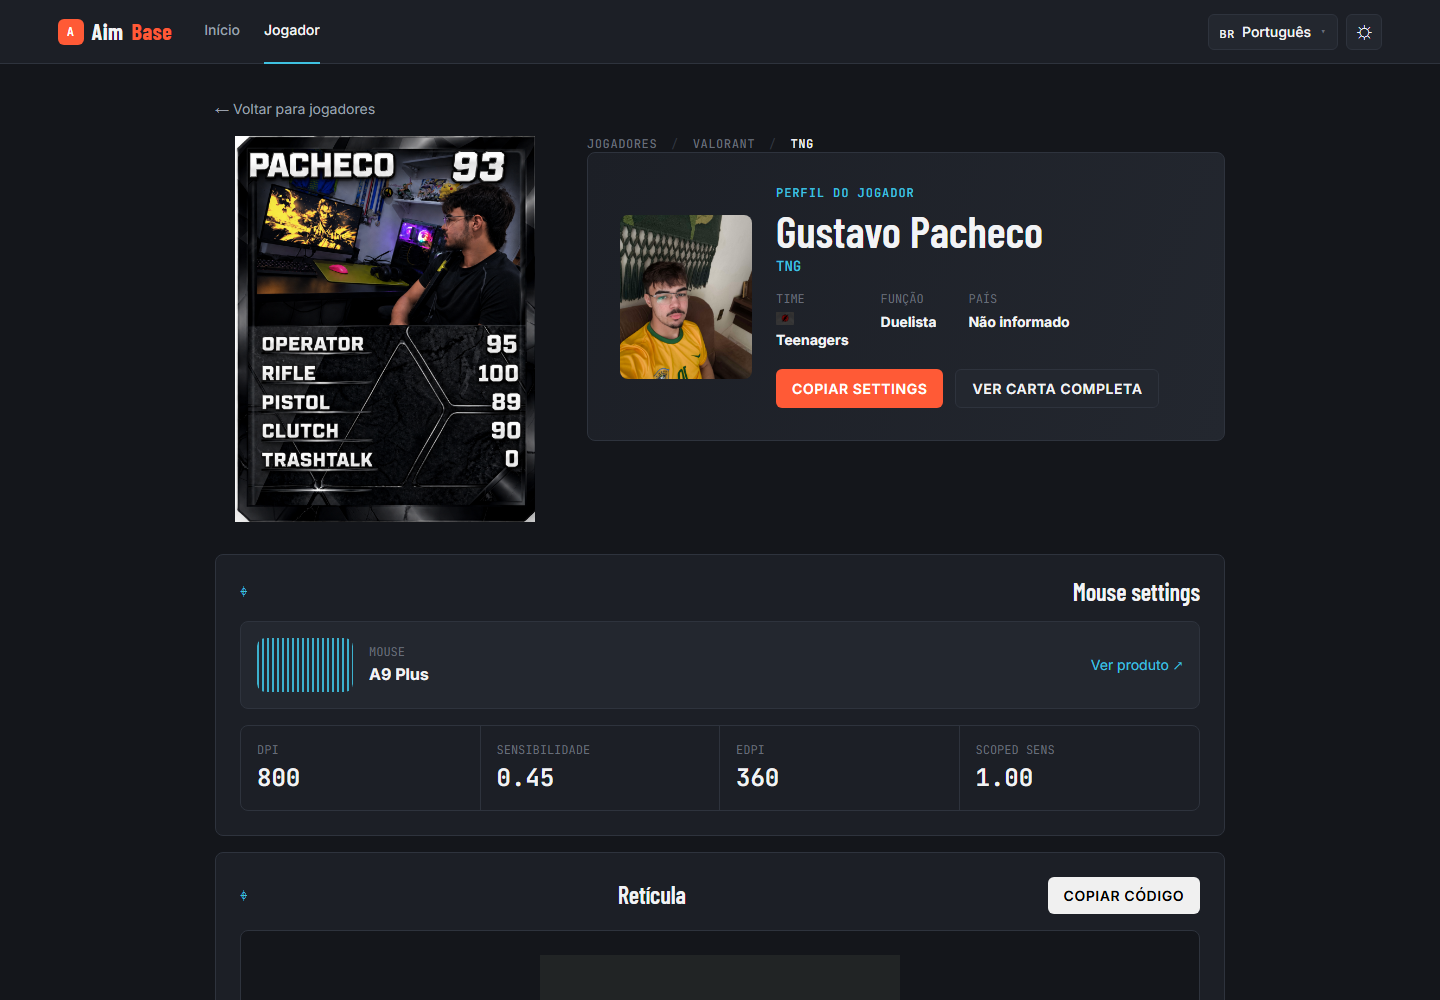
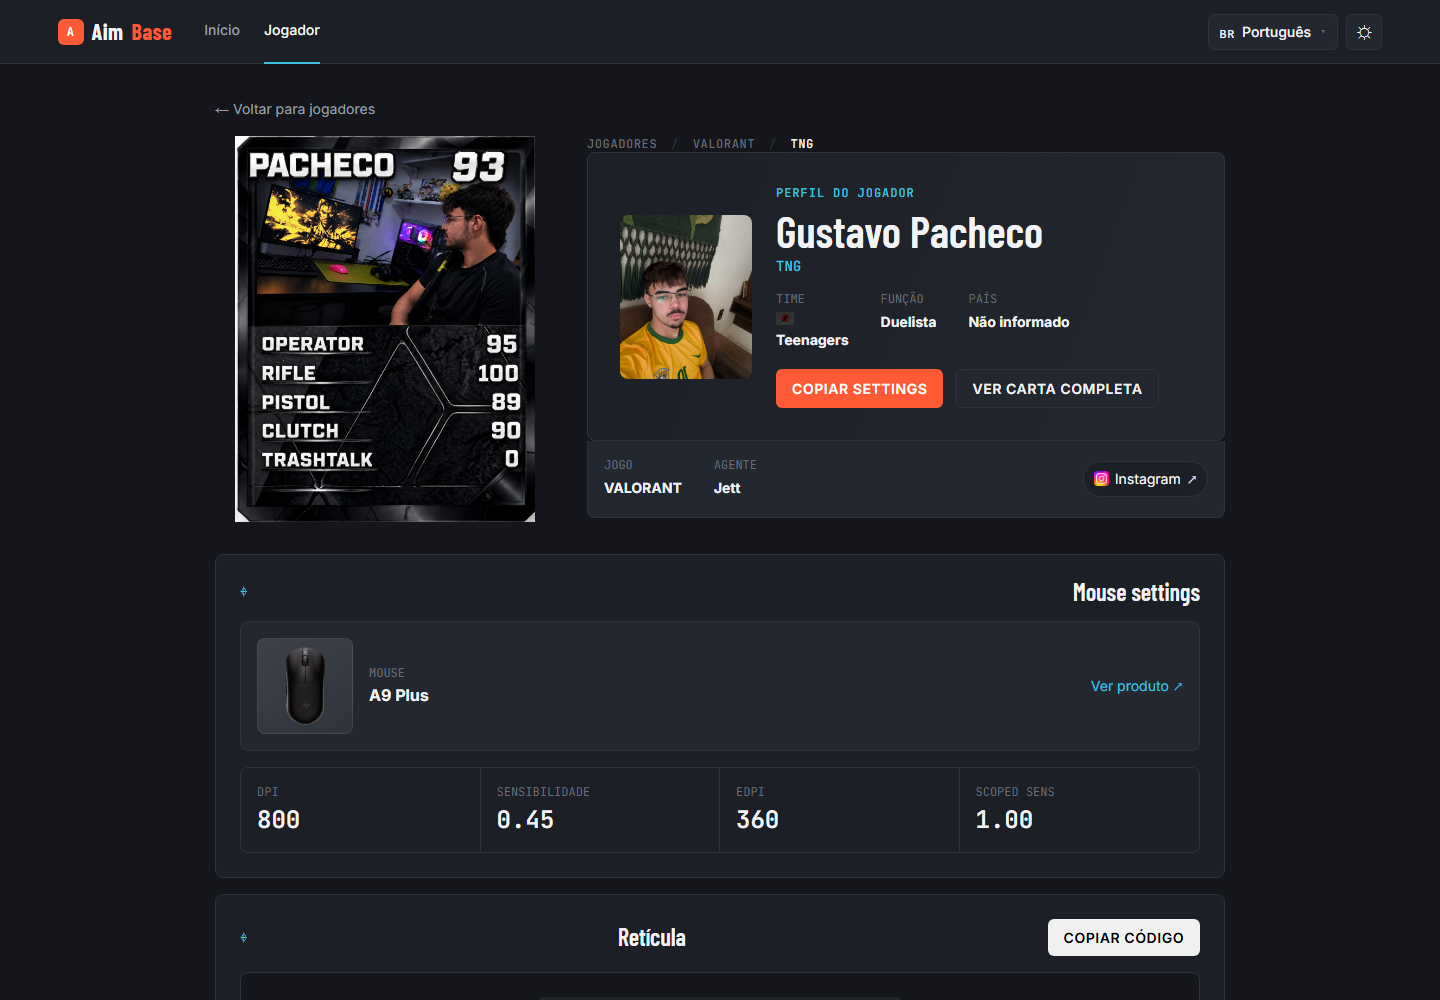
feat: adiciona miniaturas transparentes dos mouses nos perfis

diff --git a/data.js b/data.js
@@ -17,7 +17,7 @@ const defaultPlayers = [{
   videoSettings: [['Resolução', '1920x1080'], ['Proporção', '16:9'], ['Método', 'Fill'], ['Modo de exibição', 'Tela cheia'], ['Renderização multithread', 'Ligada'], ['Material / textura / detalhe', 'Baixo'], ['Qualidade da interface', 'Baixa'], ['Vignette / VSync', 'Desligados'], ['Anti-aliasing', 'MSAA 4x'], ['Filtragem anisotrópica', '4x'], ['Improve Clarity / Sharpening', 'Desligados'], ['Bloom', 'Desligado'], ['Distortion / sombras', 'Desligados'], ['Destaque de inimigo', 'Yellow (Deuteranopia)'], ['NVIDIA Reflex', 'On + Boost']],
   pcSpecs: [['Processador', 'AMD Ryzen 5 5600', 'https://www.pichau.com.br/processador-amd-ryzen-5-5600-6-core-12-threads-3-5ghz-4-4ghz-turbo-cache-35mb-am4-100-100000927box', 'assets/rzn.jpg'], ['Placa de vídeo', 'RTX 3060 12GB', 'https://www.foxgamerinfo.com.br/product-page/placa-de-v%C3%ADdeo-geforce-rtx-3060-12gb-gddr6', 'assets/rtx.jpeg']],
   headset: { name: 'MCHOSE V9 Pro', link: 'https://pt.aliexpress.com/item/1005011745761008.html' },
-  productImages: { monitor: 'assets/products/superframe-sfp2415.jpg', mouse: 'assets/products/atk-a9-plus.jpg', keyboard: 'assets/products/madlions-68-he.jpg', headset: 'assets/products/mchose-v9-pro.jpg', mousepad: 'assets/products/atk-99g-xsoft.png' },
+  productImages: { monitor: 'assets/products/superframe-sfp2415.jpg', mouse: 'assets/products/atk-a9-plus.png', keyboard: 'assets/products/madlions-68-he.jpg', headset: 'assets/products/mchose-v9-pro.jpg', mousepad: 'assets/products/atk-99g-xsoft.png' },
   links: { mouse: 'https://pt.aliexpress.com/item/1005011812220400.html', keyboard: 'https://pt.aliexpress.com/item/1005008299208938.html', mousepad: 'https://pt.aliexpress.com/item/1005011561185122.html', monitor: 'https://www.terabyteshop.com.br/produto/33583' }
 }, {
   id: 'z4gb', name: 'Gabriel Felipi', tag: 'Z4GB#TOP1', team: 'Free Agent', role: 'Duelista', country: '🇧🇷 Brasil',
@@ -38,7 +38,7 @@ const defaultPlayers = [{
   social: { Instagram: 'https://www.instagram.com/costa22_hand/' },
   headset: { name: 'TRUTHEAR x Crinacle ZERO In-ear Monitor', link: 'https://truthear.com/products/zero' },
   videoSettings: [['Resolução', '1920x1080'], ['Proporção', '16:9'], ['Método', 'Fill'], ['Modo de exibição', 'Tela cheia'], ['Renderização multithread', 'Ligada'], ['Material / textura / detalhe', 'Baixo'], ['Qualidade da interface', 'Baixa'], ['Vignette / VSync', 'Desligados'], ['Anti-aliasing', 'MSAA 4x'], ['Filtragem anisotrópica', '4x'], ['Improve Clarity / Sharpening', 'Desligados'], ['Bloom', 'Desligado'], ['Distortion / sombras', 'Desligados'], ['Destaque de inimigo', 'Yellow (Deuteranopia)'], ['NVIDIA Reflex', 'On + Boost']],
-  productImages: { mouse: 'assets/products/tardus-logitech-g403-hero.jpg', keyboard: 'assets/products/tardus-ajazz-ak820.png', headset: 'assets/TRUTHEAR.jpg', monitor: 'assets/products/tardus-duex-dx270qgp165.jpg' },
+  productImages: { mouse: 'assets/products/tardus-logitech-g403-hero.png', keyboard: 'assets/products/tardus-ajazz-ak820.png', headset: 'assets/TRUTHEAR.jpg', monitor: 'assets/products/tardus-duex-dx270qgp165.jpg' },
   pcSpecs: [['Processador', 'AMD Ryzen 5 5600G', 'https://www.mercadolivre.com.br/processador-amd-ryzen5-5600g-com-video-6-nucleos-12-fios-39ghz-am4-ryzen-5/p/MLB18424403', 'assets/ryzeng.webp'], ['Placa de vídeo', 'RTX 3060 8GB', 'https://www.kabum.com.br/produto/543498/placa-de-video-rtx-3060-gigabyte-gaming-oc-8gb-gddr6-128bits', 'assets/rtx.webp']],
   links: { mouse: 'https://www.kabum.com.br/produto/102649', keyboard: 'https://pt.aliexpress.com/item/1005007805708183.html', mousepad: '', monitor: 'https://www.setupninja.com.br/' }
 }, {
@@ -48,7 +48,7 @@ const defaultPlayers = [{
   social: { Instagram: 'https://www.instagram.com/dannzx_01/' },
   videoSettings: [['Resolução', '1280x960'], ['Proporção', '4:3'], ['Método', 'Fill'], ['Modo de exibição', 'Tela cheia'], ['Renderização multithread', 'Ligada'], ['Material / textura / detalhe', 'Baixo'], ['Qualidade da UI', 'Baixa'], ['Vignette / VSync', 'Desligados'], ['Anti-aliasing', 'Nenhum'], ['Filtragem anisotrópica', '1x'], ['Improve Clarity / Sharpening', 'Desligados'], ['Bloom', 'Ligado'], ['Distortion / sombras', 'Desligados'], ['Destaque de inimigo', 'Yellow (Deuteranopia)'], ['NVIDIA Reflex', 'On + Boost']],
   headset: { name: 'Havit H2002D', link: 'https://www.amazon.com.br/Headphone-Ouvido-HV-H2002d-Microfone-Falante/dp/B07Y2G7VX5' },
-  productImages: { mouse: 'assets/products/danilo-delux-m800-pro.jpg', keyboard: 'assets/products/danilo-redragon-daksa.jpg', headset: 'assets/havit.webp', monitor: 'assets/products/danilo-lg-27gs60f-b.jpg' },
+  productImages: { mouse: 'assets/products/danilo-delux-m800-pro.png', keyboard: 'assets/products/danilo-redragon-daksa.jpg', headset: 'assets/havit.webp', monitor: 'assets/products/danilo-lg-27gs60f-b.jpg' },
   links: { mouse: 'https://www.mercadolivre.com.br/', keyboard: 'https://www.kabum.com.br/produto/202254', mousepad: '', monitor: 'https://www.kabum.com.br/produto/620992' },
   pcSpecs: [['Processador', 'AMD Ryzen 7 5700X', 'https://www.pichau.com.br/processador-amd-ryzen-7-5700x-8-core-16-threads-3-4ghz-4-6ghz-turbo-cache-36mb-am4-100-100000926wof', 'assets/ryzen7.jpg'], ['Placa de vídeo', 'RTX 3060 12GB', 'https://www.foxgamerinfo.com.br/product-page/placa-de-v%C3%ADdeo-geforce-rtx-3060-12gb-gddr6', 'assets/rtx.jpeg']]
 }, {
@@ -58,7 +58,7 @@ const defaultPlayers = [{
   headset: { name: 'Mintak Pro Wireless', link: 'https://titorion.com.br/product/headset-gamer-mintak-pro-wireless-2-4ghz-preto-1' },
   social: { Instagram: 'https://www.instagram.com/oggomes___/' },
   videoSettings: [['Resolução', '1920x1080'], ['Proporção', '16:9'], ['Modo de exibição', 'Tela cheia'], ['Renderização multithread', 'Ligada'], ['Qualidade', 'Baixa'], ['Multisampling Anti-Aliasing', 'Nenhum'], ['Filtro textures', 'Bilinear'], ['Shaders', 'Baixo'], ['Sombras', 'Desligadas'], ['Detalhes do modelo', 'Baixo'], ['Destaque de inimigo', 'Yellow (Deuteranopia)']],
-  productImages: { mouse: 'assets/attack.jpg', keyboard: 'assets/kumara.webp', headset: 'assets/mintak.webp', mousepad: 'assets/pad.webp', monitor: 'assets/products/igor-lg-27gs60f-b.jpg' },
+  productImages: { mouse: 'assets/attack.png', keyboard: 'assets/kumara.webp', headset: 'assets/mintak.webp', mousepad: 'assets/pad.webp', monitor: 'assets/products/igor-lg-27gs60f-b.jpg' },
   pcSpecs: [['Processador', 'AMD Ryzen 5 5600G (vídeo integrado)', 'https://www.mercadolivre.com.br/processador-amd-ryzen5-5600g-com-video-6-nucleos-12-fios-39ghz-am4-ryzen-5/p/MLB18424403#polycard_client=search-desktop&float_highlight=last_units&be_origin=backend&overlay_label=not_apply&search_layout=grid&position=5&type=product&tracking_id=06f9e4ad-5d8d-43cb-ba03-5155137f32bb&wid=MLB3468315723&sid=search', 'assets/ryzeng.webp']],
   links: { mouse: 'https://attackshark.net.br/products/attack-shark-x11-wireless-gaming-mouse-charging-dock', keyboard: 'https://www.kabum.com.br/produto/93159/teclado-mecanico-gamer-redragon-kumara-anti-ghosting-rgb-switch-outemu-red-abnt2-preto-pt-k552rgb-1-pt-red', mousepad: 'https://www.magazineluiza.com.br/mousepad-preto-16x21-generico/p/ff5caef714/in/mspd/', monitor: 'https://www.kabum.com.br/produto/620992' }
 }, {
@@ -69,7 +69,7 @@ const defaultPlayers = [{
   social: { Instagram: 'https://www.instagram.com/thomas__evangelista' },
   videoSettings: [['Qualidade de Textura', 'Baixa'], ['Filtragem de Textura', 'Linear'], ['Qualidade de LOD', 'Alta'], ['Qualidade de Sombras', 'Média'], ['Reflexos, Oclusão de Ambiente e Efeitos de Lente', 'Desligados'], ['Campo de Visão (FOV)', '90'], ['Anti-Aliasing', 'Desligado'], ['Entrada de dados bruta', 'Ativado']],
   pcSpecs: [['Processador', 'AMD Ryzen 5 Pro 3600G', 'https://www.kabum.com.br/produto/688260/processador-amd-ryzen-5-pro-3600g-3-6ghz-4-2ghz-max-turbo-am4-oem', 'assets/3600.webp']],
-  productImages: { mouse: 'assets/notho.webp', keyboard: 'assets/dyau.jpg' },
+  productImages: { mouse: 'assets/notho.png', keyboard: 'assets/dyau.jpg' },
   links: { mouse: 'https://www.redragon.store/mouse-gamer-redragon-nothosaur-m606-3200-dp', keyboard: 'https://www.pichau.com.br/teclado-gamer-redragon-dyaus2-rgb-k509rgb-pt', mousepad: '', monitor: '' }
 }, {
   id: 'mgk', name: 'Miguel Marlon', tag: 'ferreirinhachb#3717', team: 'Free Agent', role: 'Iniciador', country: '🇧🇷 Brasil',
@@ -80,7 +80,7 @@ const defaultPlayers = [{
   headset: { name: 'QKZ In-ear', link: 'https://www.mercadolivre.com.br/fone-de-ouvido-gamer-dj-musicos-retorno-palco-inear-ccase-cor-preto/p/MLB57335841#polycard_client=search-desktop&be_origin=backend&overlay_label=not_apply&search_layout=grid&position=7&type=product&tracking_id=eeb7bae5-3c19-4de6-bac1-8f73d0129e99&wid=MLB5755630628&sid=search' },
   videoSettings: [['Resolução', '1280x960'], ['Proporção', '4:3'], ['Método', 'Fill'], ['Modo de exibição', 'Tela cheia'], ['Renderização multithread', 'Ligada'], ['Material / textura / detalhe', 'Baixo'], ['Qualidade da UI', 'Baixa'], ['Vignette / VSync', 'Desligados'], ['Anti-aliasing', 'Nenhum'], ['Filtragem anisotrópica', '1x'], ['Improve Clarity / Sharpening', 'Desligados'], ['Bloom', 'Desligado'], ['Distortion / sombras', 'Desligados'], ['Destaque de inimigo', 'Yellow (Deuteranopia)'], ['NVIDIA Reflex', 'Ativado']],
   pcSpecs: [['Processador', 'AMD Ryzen 5 5600GT (vídeo integrado)', 'https://www.pichau.com.br/processador-amd-ryzen-5-5600gt-6-core-12-threads-3-6ghz-4-6ghz-turbo-cache-19mb-am4-100-100001488box', 'assets/ryzengt.jpg']],
-  productImages: { mouse: 'assets/products/atk-a9-plus.jpg', keyboard: 'assets/products/teclado.webp', mousepad: 'assets/products/mousepad.webp', headset: 'assets/qkz.webp', monitor: 'assets/products/monitor.webp' },
+  productImages: { mouse: 'assets/products/atk-a9-plus.png', keyboard: 'assets/products/teclado.webp', mousepad: 'assets/products/mousepad.webp', headset: 'assets/qkz.webp', monitor: 'assets/products/monitor.webp' },
   links: { mouse: 'https://www.amazon.com/ATK-Dragonfly-A9-Lightweight-Adjustable/dp/B0FNC9H56K?th=1', keyboard: 'https://global.machenike.com/pt-br/products/k500', mousepad: 'https://www.amazon.com.br/Mouse-pad-pk-control-1/dp/B0DFW1CWPX', monitor: 'https://www.shop.samsung.com.br/monitor-samsung-essential-s3-32-polegadas/p' }
 }, {
   id: 'fallen', name: 'Gabriel Toledo', tag: 'FalleN', team: 'FURIA', role: 'IGL / AWP', country: '🇧🇷 Brasil',
@@ -102,7 +102,7 @@ const defaultPlayers = [{
   crosshair: '0;P;h;0;0l;4;0o;0;0a;1;0f;0;1b;0', crosshairImage: 'assets/++.png',
   social: { Instagram: 'https://www.instagram.com/aspaszin/', Twitter: 'https://x.com/aspaszin', Twitch: 'https://www.twitch.tv/aspaszin', Youtube: 'https://www.youtube.com/channel/UC54ubmq5wHM3fK0ERA856Zg' },
   headset: { name: 'Razer BlackShark V3 Pro', link: 'https://amzn.to/419l8Jy' },
-  productImages: { mouse: 'assets/gpro.jpg', keyboard: 'assets/atk.webp', mousepad: 'assets/qcK.jpg', monitor: 'assets/zowie.jpg', headset: 'assets/razer.jpg' },
+  productImages: { mouse: 'assets/gpro.png', keyboard: 'assets/atk.webp', mousepad: 'assets/qcK.jpg', monitor: 'assets/zowie.jpg', headset: 'assets/razer.jpg' },
   videoSettings: [['Resolução', '1920x1080'], ['Proporção', '16:9'], ['Método de proporção', 'Fill'], ['Modo de exibição', 'Tela cheia'], ['Renderização multithread', 'Ligada'], ['Qualidade de material', 'Baixa'], ['Qualidade de textura', 'Baixa'], ['Qualidade de detalhe', 'Baixa'], ['Qualidade de interface', 'Baixa'], ['Vignette', 'Desligado'], ['VSync', 'Desligado'], ['Anti-Aliasing', 'Nenhum'], ['Filtragem anisotrópica', '1x'], ['Improve Clarity', 'Desligado'], ['Experimental Sharpening', 'Desligado'], ['Bloom', 'Ligado'], ['Distorção', 'Desligado'], ['Sombras projetadas', 'Desligado'], ['Destaque de inimigo', 'Yellow (Deuteranopia)'], ['Monitor · DyAc', 'Premium'], ['Monitor · Black eQualizer', '10'], ['Monitor · Color Vibrance', '10'], ['Monitor · Low Blue Light', '0'], ['Monitor · Picture Mode', 'FPS 1'], ['Monitor · Brilho', '88'], ['Monitor · Contraste', '50'], ['Monitor · Nitidez', '7'], ['Monitor · Gamma', '3'], ['Monitor · Temperatura de cor', 'User Define'], ['Monitor · RGB', '89/87/100'], ['Monitor · AMA', 'Premium'], ['GPU · Digital Vibrance', '50%'], ['Teclado · Código do perfil', '78f7950fb2896b5528db0b9c86b632249822']],
   pcSpecs: [['Processador', 'Intel Core i7-13700K', 'https://amzn.to/3J6SDEm', 'assets/i7.jpg'], ['Placa de vídeo', 'NVIDIA GeForce RTX 5080', 'https://amzn.to/4h9U4ir', 'assets/asus.jpg'], ['Gabinete', 'NZXT H7 Flow', 'https://amzn.to/4cpUm2T', 'assets/gabinete.jpg']],
   links: { mouse: 'https://amzn.to/3q86C2l', keyboard: 'https://amzn.to/4hrl3ac', mousepad: 'https://amzn.to/4tI6c0l', monitor: 'https://amzn.to/4a0nzAd' }
@@ -114,7 +114,7 @@ const defaultPlayers = [{
   crosshair: '0;P;c;7;o;1;d;1;a;0.943;0b;0;1b;0', crosshairImage: 'assets/download.png',
   social: { Twitter: 'https://twitter.com/NoiaFPS', Twitch: 'https://www.twitch.tv/NoiaVAL' },
   headset: { name: 'SteelSeries Arctis Nova Pro', link: 'https://amzn.to/3tMDkrP' },
-  productImages: { mouse: 'assets/wl.jpg', keyboard: 'assets/wooting.webp', mousepad: 'assets/artisan.jpg', monitor: 'assets/400hz.jpg', headset: 'assets/steel.jpg' },
+  productImages: { mouse: 'assets/wl.png', keyboard: 'assets/wooting.webp', mousepad: 'assets/artisan.jpg', monitor: 'assets/400hz.jpg', headset: 'assets/steel.jpg' },
   videoSettings: [['Resolução', '1920x1080'], ['Proporção', '16:9'], ['Método de proporção', 'Fill'], ['Modo de exibição', 'Tela cheia'], ['Renderização multithread', 'Ligada'], ['Material / textura / detalhe', 'Baixo'], ['Qualidade de interface', 'Baixa'], ['Vignette', 'Desligado'], ['VSync', 'Desligado'], ['Anti-Aliasing', 'Nenhum'], ['Filtragem anisotrópica', '8x'], ['Improve Clarity', 'Desligado'], ['Experimental Sharpening', 'Desligado'], ['Bloom', 'Desligado'], ['Distorção', 'Desligado'], ['Sombras projetadas', 'Desligado']],
   pcSpecs: [],
   links: { mouse: 'https://amzn.to/3TBrhen', keyboard: 'https://wooting.io/wooting-60he', mousepad: 'https://amzn.to/2K0cnMG', monitor: 'https://amzn.to/4cAR1xz' }

diff --git a/profile.js b/profile.js
@@ -144,6 +144,22 @@ if (document.body.dataset.page === 'profile') {
       scopedRaw != null && String(scopedRaw).trim() !== '' && Number.isFinite(scopedNum) ? scopedNum.toFixed(2) : '–';
     const naoInformado = I18N.t('common.notInformed');
     $('mouseName').textContent = player.mouse || naoInformado;
+    const mouseThumbWrap = $('mouseThumbWrap');
+    const mouseThumb = $('mouseThumb');
+    const mouseFallback = $('mouseFallback');
+    const mouseImage = player.productImages?.mouse;
+    if (mouseThumbWrap && mouseThumb && mouseFallback) {
+      const hasMouseImage = Boolean(mouseImage);
+      mouseThumbWrap.hidden = !hasMouseImage;
+      mouseFallback.hidden = hasMouseImage;
+      if (hasMouseImage) {
+        mouseThumb.src = safeUrl(mouseImage);
+        mouseThumb.alt = player.mouse ? `${I18N.t('settings.productMouse')}: ${player.mouse}` : I18N.t('settings.productMouse');
+      } else {
+        mouseThumb.removeAttribute('src');
+        mouseThumb.alt = '';
+      }
+    }
     $('keyboardName').textContent = player.keyboard || naoInformado;
     $('mousepadName').textContent = player.mousepad || naoInformado;
     $('monitorName').textContent = player.monitor || naoInformado;

diff --git a/player.html b/player.html
@@ -97,7 +97,7 @@
   <section class="content" id="settings">
     <section class="settings-block">
       <div class="section-heading"><span class="section-icon">⌖</span><h2 data-i18n="settings.mouse">Mouse settings</h2></div>
-      <div class="mouse-product"><span class="product-icon mouse-shape"></span><div><small data-i18n="settings.productMouse">MOUSE</small><strong id="mouseName"></strong></div><a id="mouseLink" href="#" target="_blank" rel="noopener" data-i18n="settings.viewProduct">Ver produto ↗</a></div>
+      <div class="mouse-product"><span class="gear-thumb" id="mouseThumbWrap" hidden><img id="mouseThumb" alt="" loading="lazy" decoding="async"></span><span class="product-icon mouse-shape" id="mouseFallback" aria-hidden="true" hidden></span><div><small data-i18n="settings.productMouse">MOUSE</small><strong id="mouseName"></strong></div><a id="mouseLink" href="#" target="_blank" rel="noopener" data-i18n="settings.viewProduct">Ver produto ↗</a></div>
       <div class="data-grid">
         <div><small data-i18n="settings.dpi">DPI</small><strong id="dpi"></strong></div>
         <div><small data-i18n="settings.sens">SENSIBILIDADE</small><strong id="sensitivity"></strong></div>

diff --git a/assets/css/components/utility.css b/assets/css/components/utility.css
@@ -114,6 +114,31 @@
   opacity: 0.9;
 }
 
+.gear-thumb {
+  display: flex;
+  align-items: center;
+  justify-content: center;
+  width: 96px;
+  height: 96px;
+  flex: none;
+  padding: 8px;
+  border: 1px solid rgba(255, 255, 255, 0.08);
+  border-radius: var(--radius-card);
+  background: linear-gradient(145deg, rgba(255, 255, 255, 0.12), rgba(255, 255, 255, 0.06));
+  overflow: hidden;
+}
+
+.gear-thumb img {
+  width: 100%;
+  height: 100%;
+  object-fit: contain;
+}
+
+.gear-thumb[hidden],
+.mouse-product .product-icon[hidden] {
+  display: none;
+}
+
 .mouse-product small {
   display: block;
   color: var(--text-muted);

diff --git a/assets/css/responsive.css b/assets/css/responsive.css
@@ -261,6 +261,15 @@
     grid-template-columns: 1fr;
   }
 
+  .mouse-product {
+    flex-wrap: wrap;
+  }
+
+  .mouse-product > div {
+    flex: 1 1 120px;
+    min-width: 0;
+  }
+
   .form-grid {
     grid-template-columns: 1fr;
   }
